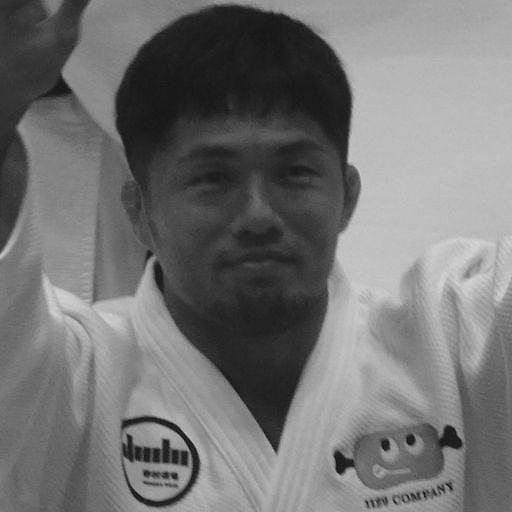
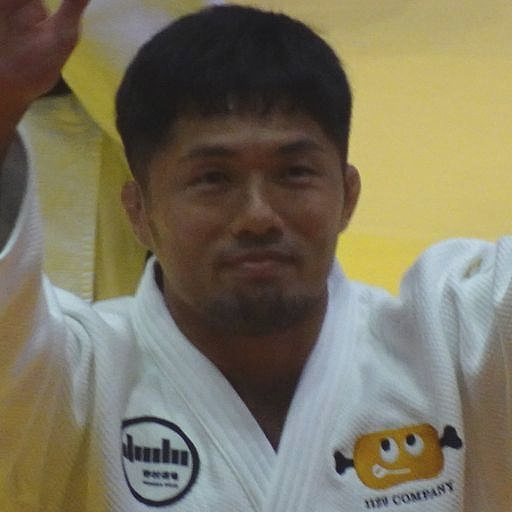
feat(rizin5): 公式映像・対戦カード一覧を追加し、選手写真をカラー化
観戦ガイドを「読む1枚」から「大会を1ページで見る器」に寄せる。

- 公式映像（#official）: RIZIN公式YouTubeのトレーラー＋カード発表会見を埋め込む。
  大会の公式ビジュアル（対戦カード画像・ポスター）は RIZIN の著作物なのでダウンロード
  して置くことは絶対にしないが、YouTube 埋め込みは公式が用意した配信手段で、権利も
  再生数も公式に帰属したまま公式のキービジュアルをページの主役に据えられる。
  ファサード（LiteVideo）なので初期表示は重くならない。
- 対戦カード一覧（#card-list）: 全8試合を一目で見て各試合へ飛べる表。下の詳細カードは
  1試合ずつが長く、「超RIZIN.5 対戦カード」で来た読者が探している形が無かった。
- 選手写真をカラーに（村山指示）。輝度の正規化は従来どおり残し、彩度を目標値へ揃えて
  素材の出自差を抑える。--mono で従来のグレースケールに戻せる。
  低解像度素材（500px 原版から200px切り出し）は拡大率に応じてシャープを弱める
  ＝グレースケールでは見えなかった輪郭の段差がカラーで露呈したため。

diff --git a/src/app/[locale]/rizin5/page.tsx b/src/app/[locale]/rizin5/page.tsx
@@ -9,7 +9,9 @@ import { linkableFighterOf } from '@/lib/fighterHub';
 import { RIZIN5, type Rizin5Fighter } from '@/lib/rizin5';
 import { SPORT_INFO } from '@/lib/sports';
 import { vodOffers } from '@/lib/vod';
+import { toEmbedUrl, youTubeId } from '@/lib/media';
 import EventCountdown from '@/components/EventCountdown';
+import LiteVideo from '@/components/LiteVideo';
 import FeedGrid from '@/components/FeedGrid';
 import SectionHeading from '@/components/SectionHeading';
 import Breadcrumbs from '@/components/Breadcrumbs';
@@ -242,12 +244,113 @@ export default async function Rizin5Page({
         ))}
       </section>
 
+      {/*
+        公式映像（#official）。1本目＝トレーラーを大枠で主役に据える。
+        ファサード（LiteVideo）なので、クリックするまでプレイヤー一式は読み込まれない＝
+        大会ページの初期表示を重くせずに公式ビジュアルだけ見せられる。
+        画像を転載しない代わりに公式の絵をここで出す、という設計の意図は rizin5.ts の Rizin5Video 参照。
+      */}
+      {RIZIN5.videos.length > 0 && (
+        <section id="official">
+          <SectionHeading label={t('rizin5.officialTitle')} lead />
+          {(() => {
+            const [hero, ...rest] = RIZIN5.videos;
+            const heroEmbed = toEmbedUrl(hero.url);
+            const heroId = youTubeId(hero.url);
+            return (
+              <>
+                {heroEmbed && (
+                  <figure className="mt-4">
+                    <div className="relative aspect-video overflow-hidden rounded-[3px] bg-black">
+                      <LiteVideo
+                        embedUrl={heroEmbed}
+                        thumbUrl={heroId ? `https://i.ytimg.com/vi/${heroId}/maxresdefault.jpg` : ''}
+                        title={hero.titleJa}
+                      />
+                    </div>
+                    <figcaption className="mt-2 text-xs leading-relaxed text-ink-soft">
+                      {hero.titleJa}
+                      {hero.noteJa && <span className="text-ink-mute">｜{hero.noteJa}</span>}
+                    </figcaption>
+                  </figure>
+                )}
+                {rest.length > 0 && (
+                  <ul className="mt-4 space-y-2">
+                    {rest.map((v) => (
+                      <li key={v.url} className="flex flex-wrap items-baseline gap-x-2 text-sm">
+                        <time className="shrink-0 tabular-nums text-xs text-ink-mute">{v.date}</time>
+                        <a
+                          href={v.url}
+                          target="_blank"
+                          rel="noopener noreferrer"
+                          className="font-medium text-ink underline underline-offset-2 transition-colors hover:text-ink-soft"
+                        >
+                          {v.titleJa} <span aria-hidden>↗</span>
+                        </a>
+                        {v.noteJa && <span className="text-xs text-ink-mute">{v.noteJa}</span>}
+                      </li>
+                    ))}
+                  </ul>
+                )}
+                <p className="mt-3 text-[11px] leading-relaxed text-ink-mute">{t('rizin5.officialNote')}</p>
+              </>
+            );
+          })()}
+        </section>
+      )}
+
+      {/*
+        対戦カード一覧（#card-list）。下の詳細カードは1試合ずつが長いので、
+        「全8試合を一目で見て、気になる試合へ飛ぶ」入口をここに置く＝
+        「超RIZIN.5 対戦カード」クエリで来た読者が探している形そのもの。
+      */}
+      <section id="card-list">
+        <SectionHeading label={t('rizin5.cardListTitle')} count={RIZIN5.cards.length} lead />
+        <div className="mt-4 overflow-x-auto">
+          <table className="w-full min-w-[520px] border-collapse text-left text-sm">
+            <thead>
+              <tr className="border-b border-ink/40 text-[11px] uppercase tracking-[0.1em] text-ink-mute">
+                <th className="py-2 pr-3 font-medium">{t('rizin5.cardListNo')}</th>
+                <th className="py-2 pr-4 font-medium">{t('rizin5.cardListMatch')}</th>
+                <th className="py-2 font-medium">{t('rizin5.cardListWeight')}</th>
+              </tr>
+            </thead>
+            <tbody>
+              {RIZIN5.cards.map((card) => (
+                <tr key={card.order} className="border-b border-line align-top">
+                  <td className="py-2.5 pr-3 tabular-nums text-ink-mute">
+                    {String(card.order).padStart(2, '0')}
+                  </td>
+                  <td className="py-2.5 pr-4">
+                    <a
+                      href={`#fight-${card.order}`}
+                      className="font-bold text-ink underline decoration-line underline-offset-4 transition-colors hover:decoration-ink"
+                    >
+                      {card.left.name} <span className="text-ink-mute">vs</span> {card.right.name}
+                    </a>
+                    {card.titleJa && (
+                      <span className="mt-0.5 block text-xs text-ink-soft">{card.titleJa}</span>
+                    )}
+                  </td>
+                  <td className="whitespace-nowrap py-2.5 text-xs text-ink-soft">{card.weightJa}</td>
+                </tr>
+              ))}
+            </tbody>
+          </table>
+        </div>
+      </section>
+
       {/* 対戦カードと因縁（全8試合）。 */}
       <section>
         <SectionHeading label={t('rizin5.cardsTitle')} count={RIZIN5.cards.length} lead />
         <div className="mt-4 space-y-6">
           {RIZIN5.cards.map((card) => (
-            <article key={card.order} className="border border-line p-5 sm:p-6">
+            <article
+              key={card.order}
+              id={`fight-${card.order}`}
+              // 一覧表からのアンカー着地でヘッダーに潜らないよう余白を確保する。
+              className="scroll-mt-20 border border-line p-5 sm:p-6"
+            >
               <p className="text-xs font-medium uppercase tracking-[0.15em] text-ink-mute">
                 {String(card.order).padStart(2, '0')} ／ {card.weightJa}
                 {card.titleJa ? ` ／ ${card.titleJa}` : ''}

diff --git a/src/lib/rizin5.ts b/src/lib/rizin5.ts
@@ -101,6 +101,31 @@ export type Rizin5Seat = {
 /** チケット購入導線（公式・プレイガイドの直リンク。アフィリエイトではない通常リンク） */
 export type Rizin5TicketLink = { labelJa: string; href: string };
 
+/**
+ * 公式映像（#official）。
+ *
+ * なぜ「画像」でなく「埋め込み動画」なのか（2026-08-12）:
+ * 大会の公式ビジュアル（対戦カード画像・ポスター）は RIZIN の著作物で、ダウンロードして
+ * public/media に置く＝転載は絶対にしない（CLAUDE.md §4.5・このファイル冒頭の規律）。
+ * 一方 YouTube の埋め込みは**公式が用意した配信手段**で、再生数も権利も公式に帰属したまま
+ * こちらのページに公式ビジュアルを出せる。ファサードのポスターに出るのも YouTube が配信する
+ * 公式サムネイル（＝トレーラーのキービジュアルそのもの）なので、
+ * 「公式の絵をページの主役に据える」という目的を、転載せずに満たせる唯一のルート。
+ *
+ * 載せてよいのは **RIZIN 公式チャンネル（UCZZ0UGjWsRdM8_5bsqtxYaQ）の動画だけ**。
+ * 報道各社が撮った会見動画（オリコン等）は公式チャンネルではないので載せない。
+ */
+export type Rizin5Video = {
+  /** YouTube の視聴URL（RIZIN 公式チャンネルのみ） */
+  url: string;
+  /** 表示タイトル（公式の動画タイトルを短縮してよいが、意味は変えない） */
+  titleJa: string;
+  /** 公開日（YYYY-MM-DD） */
+  date: string;
+  /** 一言メモ（何が見られるか）。無くてよい */
+  noteJa?: string;
+};
+
 export const RIZIN5 = {
   enabled: true,
   /** 開催日（JST） */
@@ -113,6 +138,31 @@ export const RIZIN5 = {
   updatedAt: '2026-08-12',
   /** この大会の反応記事を束ねるタグ（記事の tags に付けるとハブの関連枠に自動で並ぶ） */
   matchTags: ['RIZIN', '超RIZIN.5'],
+
+  /**
+   * 公式映像（#official）。先頭がページ主役の大枠＝トレーラーを置く。
+   * 新しい公式動画（煽りV・追加カード発表）が出たらここに足す＝ページ側の変更は不要。
+   */
+  videos: [
+    {
+      url: 'https://www.youtube.com/watch?v=1rYyBfh0kXg',
+      titleJa: '【Trailer】超RIZIN.5 浪速の超復活祭り',
+      date: '2026-07-10',
+      noteJa: '大阪城から始まる公式トレーラー。大会のキービジュアルはこの映像から。',
+    },
+    {
+      url: 'https://www.youtube.com/watch?v=TlZP-KGrOV8',
+      titleJa: '超ド級カード発表記者会見（2026.7.20）',
+      date: '2026-07-20',
+      noteJa: '朝倉未来vs青木真也、シェイドゥラエフvsAJ・マッキーがここで発表された会見の全編。',
+    },
+    {
+      url: 'https://www.youtube.com/watch?v=WTSkzU2BgQ4',
+      titleJa: '超緊急記者会見（2026.4.18）',
+      date: '2026-04-18',
+      noteJa: '京セラドーム大阪での開催そのものが発表された最初の会見。',
+    },
+  ] satisfies Rizin5Video[],
 
   /** 導入の地の文（俺ボイス）＝このハブの編集の背骨。 */
   introJa: [
